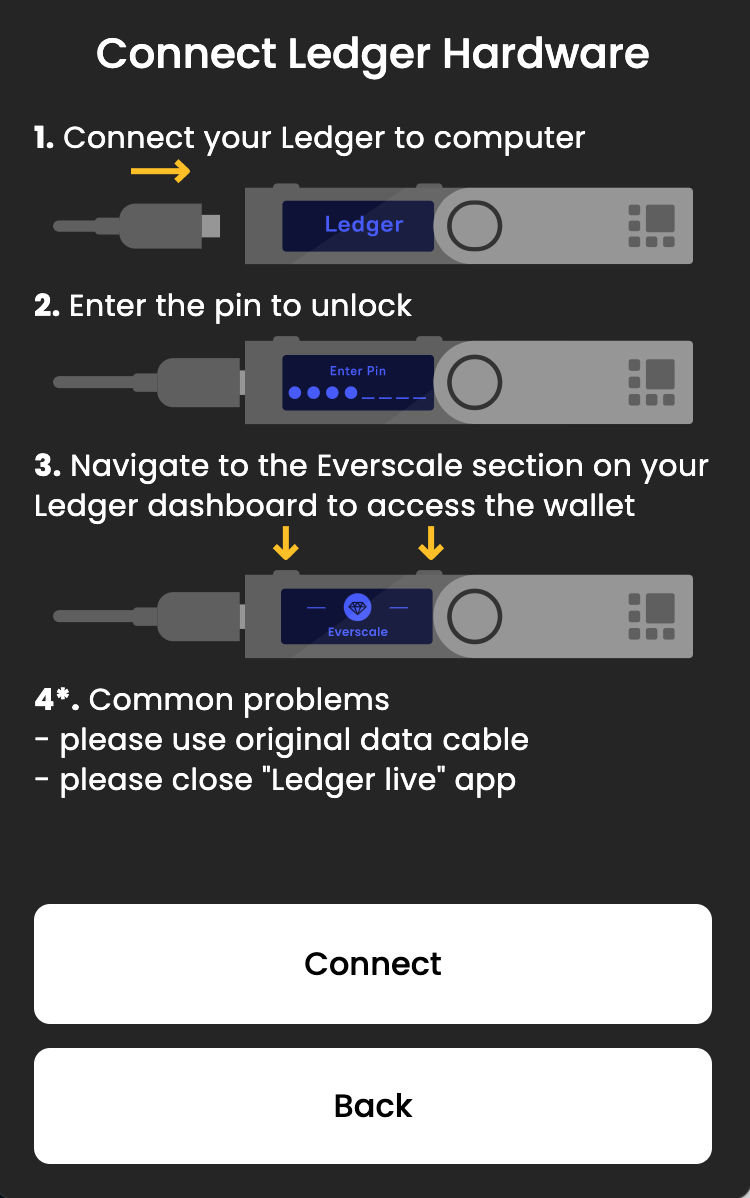
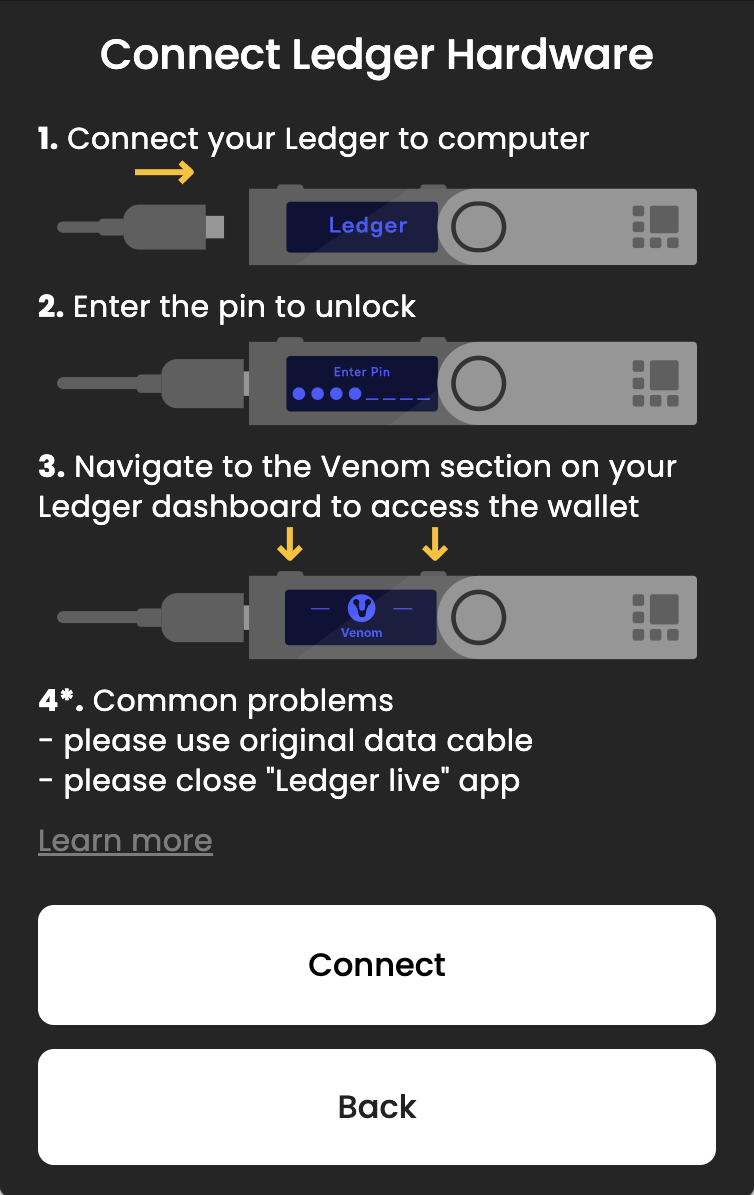
add link download; fix ledger info; fix screenshot

diff --git a/docs/start/general/wallet/the-ledger/the-ledger.md b/docs/start/general/wallet/the-ledger/the-ledger.md
@@ -16,12 +16,12 @@ import img06 from '../../assets/wallet/28.png';
 ## Setting up Venom Wallet accounts with a Ledger device.
 
 :::info
-In order to start using the Venom Wallet with a Ledger device, you should have the Everscale app installed. You can refer to these instructions on how to install Everscale.
+In order to start using the Venom Wallet with a Ledger device, you should have the Venom app installed. You can refer to these instructions on how to install Venom.
 :::
 
 
 **Here is a step-by-step guide to setting up a Venom Wallet account using a Ledger device:**
- - Before proceeding, ensure that your Ledger device has the Everscale app installed. You can find the instructions on Installing Everscale via Ledger Live [Here](../the-ledger/installing-everscale-on-ledger-live.md).
+ - Before proceeding, ensure that your Ledger device has the Venom app installed. You can find the instructions on Installing Venom via Ledger Live [Here](../the-ledger/installing-everscale-on-ledger-live.md).
  -  **Do not forget to** have Ledger Live software **closed** at all times while performing the following steps.
 
 **If you have recently installed Venom Wallet and it does not have any connected seed phrases:**
@@ -56,7 +56,7 @@ In order to start using the Venom Wallet with a Ledger device, you should have t
 
 6. Connect your Ledger device to your computer.
 7. Enter the pin code to unlock it.
-8. Navigate to the Everscale section on your Ledger dashboard to access the wallet.
+8. Navigate to the Venom section on your Ledger dashboard to access the wallet.
 9. Click Connect.
 
 <Image img={img04} alt="Click send button"

diff --git a/docs/start/general/wallet/the-ledger/installing-everscale-on-ledger-live.md b/docs/start/general/wallet/the-ledger/installing-everscale-on-ledger-live.md
@@ -1,16 +1,16 @@
 ---
 sidebar_position: 2
-sidebar_label: Installing Everscale on Ledger Live
+sidebar_label: Installing Venom on Ledger Live
 slug: /general/wallet/installing-ledger-app
 ---
 
-# Installing Everscale on Ledger Live
+# Installing Venom on Ledger Live
 
 :::info
-Before you will be able to set up Venom Wallet on your Ledger device you have to install the Everscale App on it.
+Before you will be able to set up Venom Wallet on your Ledger device you have to install the Venom App on it.
 :::
 
- To use Venom Wallet with Ledger devices the user should firt install Everscale app via Ledger Live software. 
+ To use Venom Wallet with Ledger devices the user should firt install Venom app via Ledger Live software. 
 
  
  **Here is a quick installation guide for you to follow:**
@@ -23,9 +23,9 @@ Before you will be able to set up Venom Wallet on your Ledger device you have to
    ![add account](../../assets/wallet/29.png)
 
 6.  Go to My Ledger (linear and wrench icon).
-7.  Search for Everscale App by starting typing “Everscale” into the search bar.
-8.  Click Install to install the Everscale App.
+7.  Search for Venom App by starting typing Venom into the search bar.
+8.  Click Install to install the Venom App.
 
    ![add account](../../assets/wallet/30.png)
 
-The Ledger Live will install Everscale on your Ledger device. Once a green checkmark appears, the Everscale App has been installed onto your device.
+The Ledger Live will install Venom on your Ledger device. Once a green checkmark appears, the Venom App has been installed onto your device.

diff --git a/docs/start/general/wallet/creating-new-wallet.md b/docs/start/general/wallet/creating-new-wallet.md
@@ -13,9 +13,9 @@ import img05 from '../assets/wallet/5.png';
 import img06 from '../assets/wallet/6.png';
 
 # How to Create a New Account with Venom Wallet
-### Generating the seed phrase
+### Generating the seed phrase 
 
-To use the Venom Blockchain, a user must first create a Venom wallet account. The Venom Wallet platform offers different types of accounts, including personal accounts (default) and multisig accounts for corporate use. A seed phrase is generated for the default wallet account upon creation. To create a new Wallet Account, the user can install the Venom Wallet Browser extension or download the application for IOS or Android devices.
+To use the Venom Blockchain, a user must first create a Venom wallet account. The Venom Wallet platform offers different types of accounts, including personal accounts (default) and multisig accounts for corporate use. A seed phrase is generated for the default wallet account upon creation. To create a new Wallet Account, the user can install the Venom Wallet Browser extension or download the application for IOS or Android devices [By Clicking Here](https://venom.foundation/wallet).
 
 **Here is a universal step-by-step guide for setting up a new account on Venom Wallet, ensuring it is secured with a seed phrase and password:**
 

diff --git a/docs/start/general/wallet/manage-seeds-and-accounts.md b/docs/start/general/wallet/manage-seeds-and-accounts.md
@@ -15,7 +15,7 @@ import img03 from '../assets/wallet/25.png';
 
 **The Venom Wallet** extension allows for easy and convenient storage of seed phrases in one place. Follow this guide to use this feature:
 
-**Step 1.** Open the Venom Wallet extension and log into your account. 
+**Step 1.** Open the Venom Wallet extension and log into your account.  
 **Step 2.** On the Wallet extension window select the “Profile” button. The seed management page will appear.  
 
 <Image img={img01} alt="Click send button"
@@ -30,7 +30,7 @@ import img03 from '../assets/wallet/25.png';
     className="balance-transfers inline-img"
 />
 
-**Step 4.** On the right side of the screen, click on the **“+add new button”**.  
+**Step 4.** On the right side of the screen, click on the **“+add new”**.  
 **Step 5.** When redirected to add a seed phrase, use the navigation sign to choose from the available options. To add an existing seed phrase, click on **"import seed"** or **"connect Ledger”**
 
 <Image img={img03} alt="Click send button"
